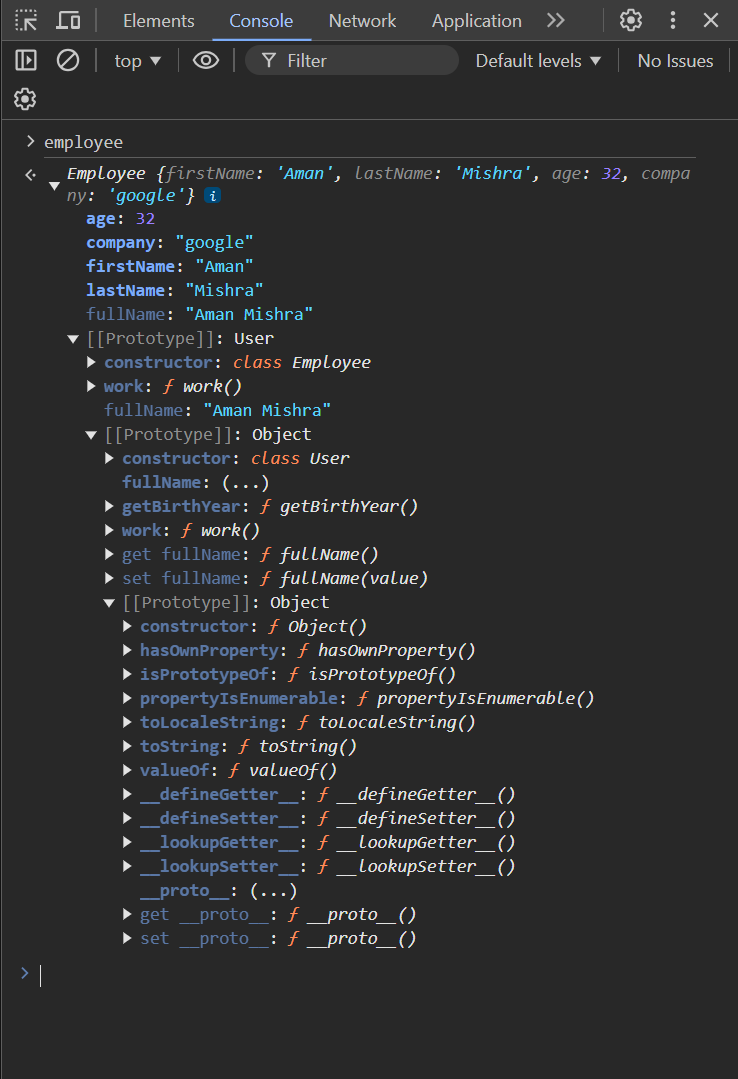
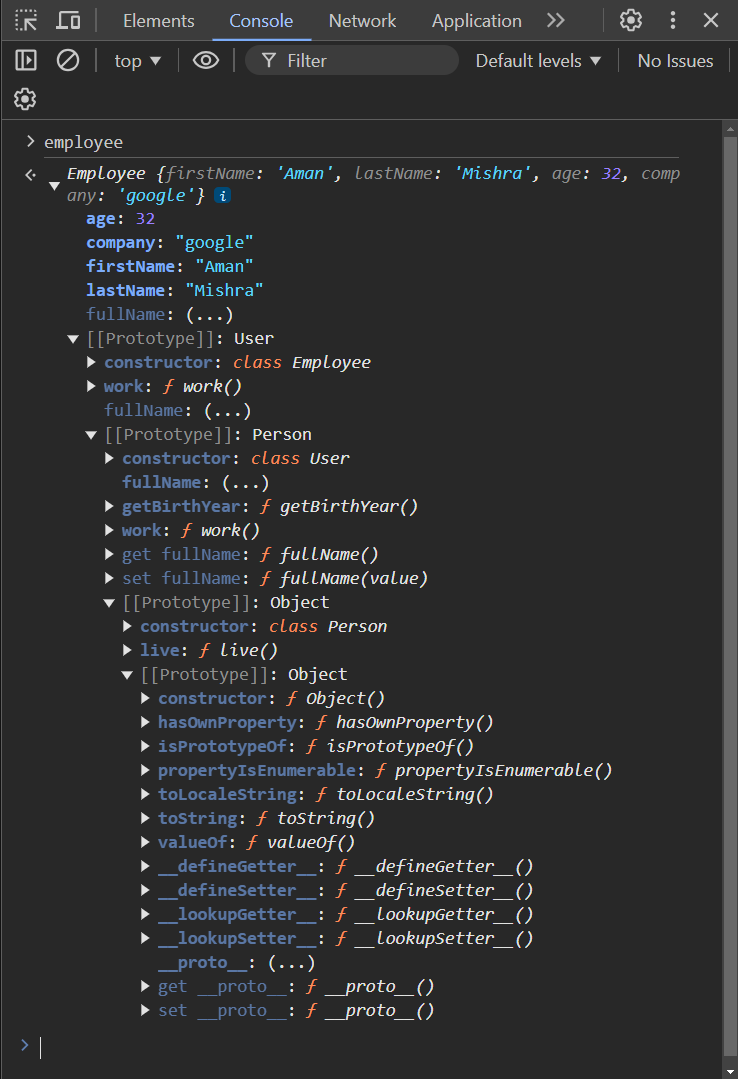
prototype chain

diff --git a/81_prototype-inheritance-using-extends-and-super-keyword-JS/script.js b/81_prototype-inheritance-using-extends-and-super-keyword-JS/script.js
@@ -70,8 +70,15 @@
 //^ in the above code we are repeating the same code again and again for the different classes
 //^ so we can use extends keyword to inherit the properties of the other class
 
-class User {
+//================================================================================
+class Person {
+  live (){
+    console.log('person is living')
+  }
+}
+class User extends Person{
   constructor(firstName, lastName, age) {
+    super()
     this.firstName = firstName
     this.lastName = lastName
     this.age = age
@@ -128,3 +135,6 @@ console.log(employee.work())
 // output: working...
 // as there are two "work", one in User class and other in Employee class
 // it will return the nearest one in the prototype chain, which is in Employee class
+
+//^ what does super keyword does?
+// super keyword is used to call the constructor of the parent class
